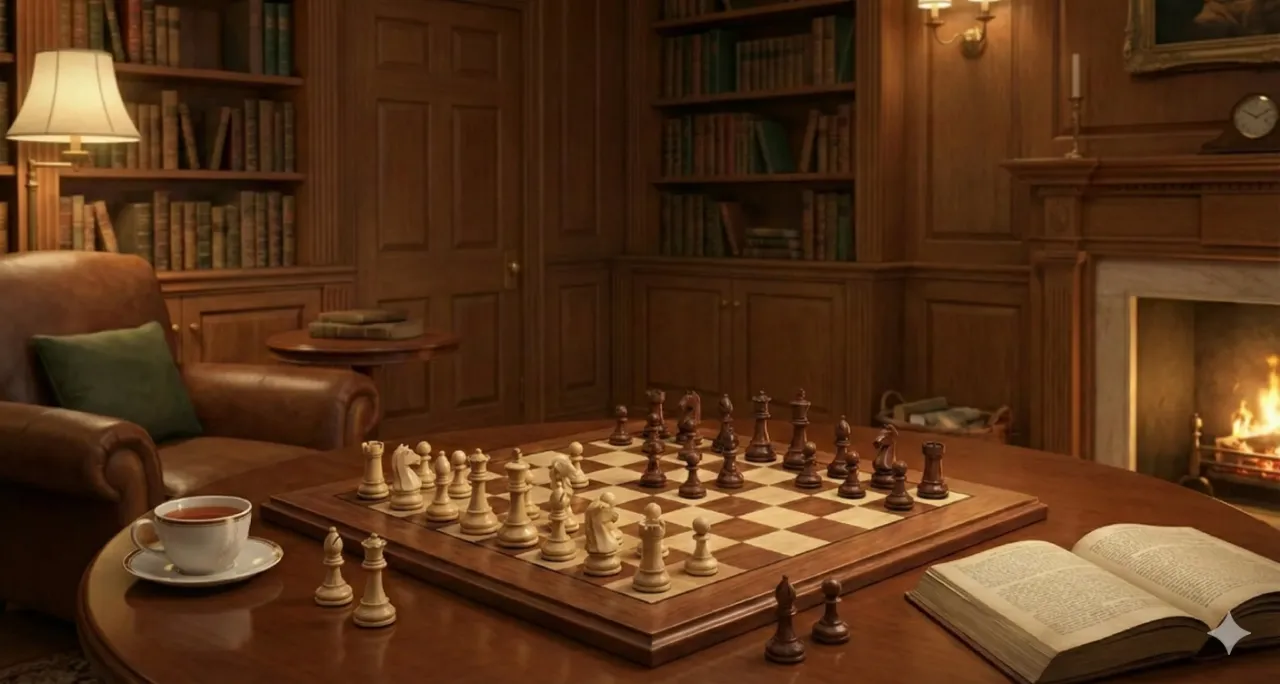
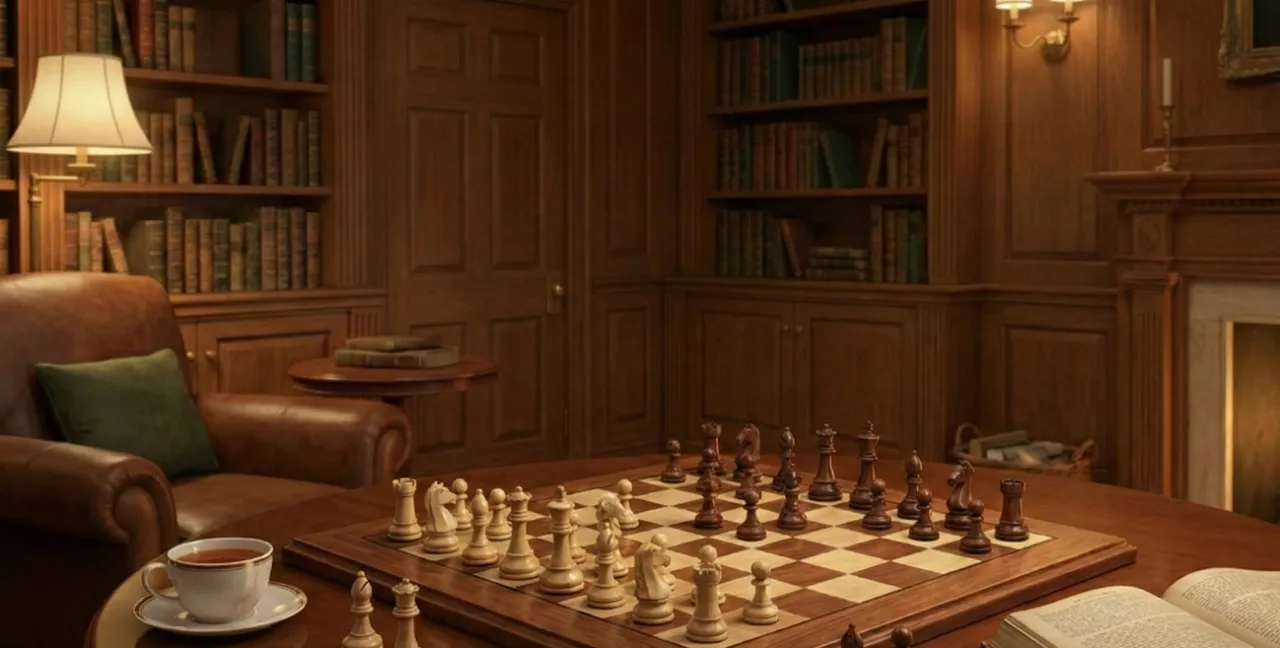
Fix confirmed review findings: duel rematch order, honest cleared-card copy, hero watermark
- Duel: who goes first now also flips on a rematch, so an odd number of positions
  does not favor the same person every time.
- Copy: a cleared notebook card says it keeps coming back at longer intervals;
  settings preview rows no longer name a quality their own verdict contradicts;
  material is 'points of value', not the 0-10 score points; museum era boundary
  moved to 1475 so the modern queen and bishop sit in the modern era.
- Gauge writes the Spanish decimal comma; singular/plural follows the rounded number.
- Account: external links no longer inherit the sync-card box style.
- Duel summary headline wraps long names; next position opens scrolled to the top.
- Landing hero photo: crop out the generator's corner mark (noted in THIRD_PARTY_NOTICES).

Claude-Session: https://claude.ai/code/session_014y2RuSNr4ZuPBvEJbVX5tK

diff --git a/index.html b/index.html
@@ -10,7 +10,7 @@
   <meta name="description" content="Entrenador de ajedrez gratuito y sin registro: aprendé de tus errores y de partidas clásicas, y ganá más puntos cuanto más cerca juegues de la mejor jugada del motor." />
   <meta name="apple-mobile-web-app-capable" content="yes" />
   <meta name="apple-mobile-web-app-title" content="Scaccorum" />
-  <meta name="ludus-version" content="0ce5101e5f27" />
+  <meta name="ludus-version" content="084140f70798" />
   <link rel="manifest" href="./manifest.json" />
   <link rel="apple-touch-icon" href="./assets/icons/apple-touch-icon.png" />
   <link rel="icon" type="image/svg+xml" href="assets/brand/favicon.svg" />
@@ -25,19 +25,19 @@
   <!-- Boot guards (js/boot.js): a tiny synchronous same-origin script that runs before the first paint. It marks
        returning visitors (no landing flash), hides the app when it is framed and shows a notice on browsers too old
        for the app; it is the only script that is not at the end of <body>. -->
-  <script src="js/boot.js?v=0ce5101e5f27"></script>
-  <link rel="stylesheet" href="styles.css?v=0ce5101e5f27" />
-  <link rel="stylesheet" href="css/system.css?v=0ce5101e5f27" />
-  <link rel="stylesheet" href="css/shell.css?v=0ce5101e5f27" />
-  <link rel="stylesheet" href="css/board.css?v=0ce5101e5f27" />
-  <link rel="stylesheet" href="css/coach.css?v=0ce5101e5f27" />
-  <link rel="stylesheet" href="css/home.css?v=0ce5101e5f27" />
-  <link rel="stylesheet" href="css/classics.css?v=0ce5101e5f27" />
-  <link rel="stylesheet" href="css/notebook.css?v=0ce5101e5f27" />
-  <link rel="stylesheet" href="css/progress.css?v=0ce5101e5f27" />
-  <link rel="stylesheet" href="css/museum.css?v=0ce5101e5f27" />
-  <link rel="stylesheet" href="css/settings.css?v=0ce5101e5f27" />
-  <link rel="stylesheet" href="css/account.css?v=0ce5101e5f27" />
+  <script src="js/boot.js?v=084140f70798"></script>
+  <link rel="stylesheet" href="styles.css?v=084140f70798" />
+  <link rel="stylesheet" href="css/system.css?v=084140f70798" />
+  <link rel="stylesheet" href="css/shell.css?v=084140f70798" />
+  <link rel="stylesheet" href="css/board.css?v=084140f70798" />
+  <link rel="stylesheet" href="css/coach.css?v=084140f70798" />
+  <link rel="stylesheet" href="css/home.css?v=084140f70798" />
+  <link rel="stylesheet" href="css/classics.css?v=084140f70798" />
+  <link rel="stylesheet" href="css/notebook.css?v=084140f70798" />
+  <link rel="stylesheet" href="css/progress.css?v=084140f70798" />
+  <link rel="stylesheet" href="css/museum.css?v=084140f70798" />
+  <link rel="stylesheet" href="css/settings.css?v=084140f70798" />
+  <link rel="stylesheet" href="css/account.css?v=084140f70798" />
 </head>
 
 <body class="mode-citizen">
@@ -420,33 +420,33 @@
     </div>
   </div>
 
-  <script src="config.js?v=0ce5101e5f27"></script>
-  <script src="js/ludus.js?v=0ce5101e5f27"></script>
-  <script src="js/chess.js?v=0ce5101e5f27"></script>
-  <script src="js/pgn.js?v=0ce5101e5f27"></script>
-  <script src="js/engine.js?v=0ce5101e5f27"></script>
-  <script src="js/scoring.js?v=0ce5101e5f27"></script>
-  <script src="js/insights.js?v=0ce5101e5f27"></script>
-  <script src="js/concepts.js?v=0ce5101e5f27"></script>
-  <script src="js/settings.js?v=0ce5101e5f27"></script>
-  <script src="js/profile.js?v=0ce5101e5f27"></script>
-  <script src="js/facts.js?v=0ce5101e5f27"></script>
-  <script src="js/reader.js?v=0ce5101e5f27"></script>
-  <script src="js/audio.js?v=0ce5101e5f27"></script>
-  <script src="js/auth.js?v=0ce5101e5f27"></script>
-  <script src="js/classics.js?v=0ce5101e5f27"></script>
-  <script src="js/ui/kit.js?v=0ce5101e5f27"></script>
-  <script src="js/ui/shell.js?v=0ce5101e5f27"></script>
-  <script src="js/ui/board.js?v=0ce5101e5f27"></script>
-  <script src="js/ui/coach.js?v=0ce5101e5f27"></script>
-  <script src="js/ui/home.js?v=0ce5101e5f27"></script>
-  <script src="js/ui/classics.js?v=0ce5101e5f27"></script>
-  <script src="js/ui/notebook.js?v=0ce5101e5f27"></script>
-  <script src="js/ui/progress.js?v=0ce5101e5f27"></script>
-  <script src="js/ui/museum.js?v=0ce5101e5f27"></script>
-  <script src="js/ui/settings.js?v=0ce5101e5f27"></script>
-  <script src="js/ui/account.js?v=0ce5101e5f27"></script>
-  <script src="app.js?v=0ce5101e5f27"></script>
+  <script src="config.js?v=084140f70798"></script>
+  <script src="js/ludus.js?v=084140f70798"></script>
+  <script src="js/chess.js?v=084140f70798"></script>
+  <script src="js/pgn.js?v=084140f70798"></script>
+  <script src="js/engine.js?v=084140f70798"></script>
+  <script src="js/scoring.js?v=084140f70798"></script>
+  <script src="js/insights.js?v=084140f70798"></script>
+  <script src="js/concepts.js?v=084140f70798"></script>
+  <script src="js/settings.js?v=084140f70798"></script>
+  <script src="js/profile.js?v=084140f70798"></script>
+  <script src="js/facts.js?v=084140f70798"></script>
+  <script src="js/reader.js?v=084140f70798"></script>
+  <script src="js/audio.js?v=084140f70798"></script>
+  <script src="js/auth.js?v=084140f70798"></script>
+  <script src="js/classics.js?v=084140f70798"></script>
+  <script src="js/ui/kit.js?v=084140f70798"></script>
+  <script src="js/ui/shell.js?v=084140f70798"></script>
+  <script src="js/ui/board.js?v=084140f70798"></script>
+  <script src="js/ui/coach.js?v=084140f70798"></script>
+  <script src="js/ui/home.js?v=084140f70798"></script>
+  <script src="js/ui/classics.js?v=084140f70798"></script>
+  <script src="js/ui/notebook.js?v=084140f70798"></script>
+  <script src="js/ui/progress.js?v=084140f70798"></script>
+  <script src="js/ui/museum.js?v=084140f70798"></script>
+  <script src="js/ui/settings.js?v=084140f70798"></script>
+  <script src="js/ui/account.js?v=084140f70798"></script>
+  <script src="app.js?v=084140f70798"></script>
 </body>
 
 </html>

diff --git a/sw.js b/sw.js
@@ -35,7 +35,7 @@ const STATIC_PREFIX = `${CACHE_PREFIX}static-`;
 const ENGINE_PREFIX = `${CACHE_PREFIX}engine-`;
 
 // generated
-const CACHE_NAME = "ludus-scaccorum-static-0ce5101e5f27";
+const CACHE_NAME = "ludus-scaccorum-static-084140f70798";
 // generated
 const ENGINE_CACHE = "ludus-scaccorum-engine-64d9ab68faad";
 // generated: SHA-256 of every engine file this build was made for
@@ -47,47 +47,47 @@ const ENGINE_FILES = {
 const CORE_ASSETS = [
   "./",
   "./index.html",
-  "./js/boot.js?v=0ce5101e5f27",
-  "./styles.css?v=0ce5101e5f27",
-  "./css/system.css?v=0ce5101e5f27",
-  "./css/shell.css?v=0ce5101e5f27",
-  "./css/board.css?v=0ce5101e5f27",
-  "./css/coach.css?v=0ce5101e5f27",
-  "./css/home.css?v=0ce5101e5f27",
-  "./css/classics.css?v=0ce5101e5f27",
-  "./css/notebook.css?v=0ce5101e5f27",
-  "./css/progress.css?v=0ce5101e5f27",
-  "./css/museum.css?v=0ce5101e5f27",
-  "./css/settings.css?v=0ce5101e5f27",
-  "./css/account.css?v=0ce5101e5f27",
-  "./config.js?v=0ce5101e5f27",
-  "./js/ludus.js?v=0ce5101e5f27",
-  "./js/chess.js?v=0ce5101e5f27",
-  "./js/pgn.js?v=0ce5101e5f27",
-  "./js/engine.js?v=0ce5101e5f27",
-  "./js/scoring.js?v=0ce5101e5f27",
-  "./js/insights.js?v=0ce5101e5f27",
-  "./js/concepts.js?v=0ce5101e5f27",
-  "./js/settings.js?v=0ce5101e5f27",
-  "./js/profile.js?v=0ce5101e5f27",
-  "./js/facts.js?v=0ce5101e5f27",
-  "./js/reader.js?v=0ce5101e5f27",
-  "./js/audio.js?v=0ce5101e5f27",
-  "./js/auth.js?v=0ce5101e5f27",
-  "./js/classics.js?v=0ce5101e5f27",
-  "./js/ui/kit.js?v=0ce5101e5f27",
-  "./js/ui/shell.js?v=0ce5101e5f27",
-  "./js/ui/board.js?v=0ce5101e5f27",
-  "./js/ui/coach.js?v=0ce5101e5f27",
-  "./js/ui/home.js?v=0ce5101e5f27",
-  "./js/ui/classics.js?v=0ce5101e5f27",
-  "./js/ui/notebook.js?v=0ce5101e5f27",
-  "./js/ui/progress.js?v=0ce5101e5f27",
-  "./js/ui/museum.js?v=0ce5101e5f27",
-  "./js/ui/settings.js?v=0ce5101e5f27",
-  "./js/ui/account.js?v=0ce5101e5f27",
-  "./app.js?v=0ce5101e5f27",
-  "./js/data/classics.data.js?v=0ce5101e5f27",
+  "./js/boot.js?v=084140f70798",
+  "./styles.css?v=084140f70798",
+  "./css/system.css?v=084140f70798",
+  "./css/shell.css?v=084140f70798",
+  "./css/board.css?v=084140f70798",
+  "./css/coach.css?v=084140f70798",
+  "./css/home.css?v=084140f70798",
+  "./css/classics.css?v=084140f70798",
+  "./css/notebook.css?v=084140f70798",
+  "./css/progress.css?v=084140f70798",
+  "./css/museum.css?v=084140f70798",
+  "./css/settings.css?v=084140f70798",
+  "./css/account.css?v=084140f70798",
+  "./config.js?v=084140f70798",
+  "./js/ludus.js?v=084140f70798",
+  "./js/chess.js?v=084140f70798",
+  "./js/pgn.js?v=084140f70798",
+  "./js/engine.js?v=084140f70798",
+  "./js/scoring.js?v=084140f70798",
+  "./js/insights.js?v=084140f70798",
+  "./js/concepts.js?v=084140f70798",
+  "./js/settings.js?v=084140f70798",
+  "./js/profile.js?v=084140f70798",
+  "./js/facts.js?v=084140f70798",
+  "./js/reader.js?v=084140f70798",
+  "./js/audio.js?v=084140f70798",
+  "./js/auth.js?v=084140f70798",
+  "./js/classics.js?v=084140f70798",
+  "./js/ui/kit.js?v=084140f70798",
+  "./js/ui/shell.js?v=084140f70798",
+  "./js/ui/board.js?v=084140f70798",
+  "./js/ui/coach.js?v=084140f70798",
+  "./js/ui/home.js?v=084140f70798",
+  "./js/ui/classics.js?v=084140f70798",
+  "./js/ui/notebook.js?v=084140f70798",
+  "./js/ui/progress.js?v=084140f70798",
+  "./js/ui/museum.js?v=084140f70798",
+  "./js/ui/settings.js?v=084140f70798",
+  "./js/ui/account.js?v=084140f70798",
+  "./app.js?v=084140f70798",
+  "./js/data/classics.data.js?v=084140f70798",
   "./manifest.json",
   "./assets/icons/icon-192.png",
   "./assets/icons/icon-512.png",

diff --git a/app.js b/app.js
@@ -1338,6 +1338,8 @@ const STATE = {
     // position while the first one's clock ran, and that advantage must not always be the same person's.
     currentPlayer: 0,
     firstPlayer: 0,
+    // 0 or 1: a rematch flips it, so with an odd number of positions the same person does not go first once more every time.
+    startOffset: 0,
     roundResults: [null, null],
     handoffReady: false,
     // The cover of a new duel position is up and the first player's clock has not started yet.
@@ -1753,7 +1755,8 @@ function currentUiPlayerIndex() {
 // The players of a duel take turns going first (PF-2): position 1 starts the first player, position 2 the second one, and
 // so on. Whoever goes second has watched the position while the other's clock ran, so the advantage is shared.
 function duelFirstPlayerFor(index) {
-  return Math.abs(Math.round(Number(index) || 0)) % 2 === 0 ? 0 : 1;
+  const offset = STATE.duel.startOffset === 1 ? 1 : 0;
+  return (Math.abs(Math.round(Number(index) || 0)) + offset) % 2 === 0 ? 0 : 1;
 }
 
 // The player who moves second in the position on screen.
@@ -2583,8 +2586,8 @@ function formatClock(remainingMs) {
 function resetDuelState() {
   STATE.duel.scores = [0, 0];
   STATE.duel.hits = [0, 0];
-  STATE.duel.currentPlayer = 0;
-  STATE.duel.firstPlayer = 0;
+  STATE.duel.firstPlayer = duelFirstPlayerFor(0);
+  STATE.duel.currentPlayer = STATE.duel.firstPlayer;
   STATE.duel.roundResults = [null, null];
   STATE.duel.handoffReady = false;
   STATE.duel.readyWait = false;
@@ -7701,7 +7704,7 @@ async function replaySession(options) {
     }
   }
   try {
-    await startSession({ kind, title, mode, names: names || undefined, profileIds: profileIds || undefined, positions, options: session.options });
+    await startSession({ kind, title, mode, names: names || undefined, profileIds: profileIds || undefined, positions, options: session.options, duelStartOffset: isDuelMode() && STATE.duel.startOffset !== 1 ? 1 : 0 });
   } catch (error) {
     console.warn("[Ludus] the new session could not start", error);
     showToast(t("core.start.failed"), { kind: "error" });
@@ -7829,6 +7832,7 @@ async function nextPosition() {
   }
   const resultSnapshot = captureResultViewSnapshot();
   hideResultOverlay();
+  if (coachScrollEl) coachScrollEl.scrollTop = 0;
 
   if (isDuelMode()) {
     // Whoever goes first in the NEXT position is the one the scoreboard points at while it is being found.
@@ -8325,6 +8329,7 @@ async function startSession(config = {}) {
 
   applyGameFormat(mode);
   if (names) STATE.duel.players = names;
+  STATE.duel.startOffset = cfg.duelStartOffset === 1 ? 1 : 0;
   resetDuelState();
   applySessionOptions(cfg.options);
   // The very first session has no clock (unless a screen asked for one): see isFirstRun().

diff --git a/js/insights.js b/js/insights.js
@@ -211,8 +211,8 @@
       "insight.missed_promotion": "{best} corona un peón. Un peón a un paso de coronar merece la primera mirada.",
       "insight.missed_check": "{best} da jaque. Antes de jugar algo tranquilo, conviene mirar todos los jaques.",
       "insight.missed_check.after": "Antes de jugar {san}, conviene mirar todos los jaques: {best} da jaque.",
-      "insight.tactic_available": "Después de {best}, la línea del motor parece ganar material: unos {n} puntos (peón 1, pieza 3, torre 5, dama 9).",
-      "insight.loses_material": "Después de {san}, la línea del motor parece costarte material: unos {n} puntos. Mirá qué puede capturar o atacar el rival.",
+      "insight.tactic_available": "Después de {best}, la línea del motor parece ganar material: unos {n} puntos de valor (peón 1, pieza 3, torre 5, dama 9).",
+      "insight.loses_material": "Después de {san}, la línea del motor parece costarte material: unos {n} puntos de valor. Mirá qué puede capturar o atacar el rival.",
       "insight.king_safety.pawn": "Mover el peón de {sq} puede debilitar el refugio que rodea a tu rey.",
       "insight.king_safety.king": "{san} saca al rey de su refugio, y eso puede dejarlo expuesto.",
       "insight.king_safety.castle": "{best} es enroque: el rey sigue en el centro y ponerlo a salvo parece urgente.",
@@ -293,8 +293,8 @@
       "insight.missed_promotion": "{best} promotes a pawn. A pawn one step from queening deserves the first look.",
       "insight.missed_check": "{best} gives check. Before quiet moves, it is worth looking at every check.",
       "insight.missed_check.after": "Before you play {san}, it is worth looking at every check: {best} gives check.",
-      "insight.tactic_available": "After {best}, the engine's line looks like it wins material: about {n} points (pawn 1, minor piece 3, rook 5, queen 9).",
-      "insight.loses_material": "After {san}, the engine's line looks like it costs you material: about {n} points. Check what your opponent can capture or attack.",
+      "insight.tactic_available": "After {best}, the engine's line looks like it wins material: about {n} points of value (pawn 1, minor piece 3, rook 5, queen 9).",
+      "insight.loses_material": "After {san}, the engine's line looks like it costs you material: about {n} points of value. Check what your opponent can capture or attack.",
       "insight.king_safety.pawn": "Moving the pawn on {sq} may weaken the shelter around your king.",
       "insight.king_safety.king": "{san} walks the king out of its shelter, which may leave it exposed.",
       "insight.king_safety.castle": "{best} castles: the king is still in the center, and getting it to safety looks urgent.",

diff --git a/js/ui/settings.js b/js/ui/settings.js
@@ -200,9 +200,9 @@
       "settings.ui.preview.case.equal": "Una jugada casi igual de buena ({cp} cp menos)",
       "settings.ui.preview.case.close": "Una jugada un poco peor ({cp} cp menos)",
       "settings.ui.preview.case.master": "La jugada del maestro, {cp} cp por debajo del motor",
-      "settings.ui.preview.case.inaccuracy": "Una imprecisión ({cp} cp menos)",
+      "settings.ui.preview.case.inaccuracy": "Una jugada algo peor ({cp} cp menos)",
       "settings.ui.preview.case.mistake": "Un error claro ({cp} cp menos)",
-      "settings.ui.preview.case.blunder": "Un error grave: se pierde una pieza ({cp} cp menos)",
+      "settings.ui.preview.case.blunder": "Un error muy grave: se pierde una pieza ({cp} cp menos)",
       "settings.ui.preview.case.mate": "No ver un mate forzado",
       "settings.ui.preview.case.hint": "La mejor jugada, tras usar una pista",
       "settings.ui.preview.foot": "El motor solo cambia la fiabilidad de la evaluación, no la escala de puntos. Con una sola línea no se reconocen las jugadas únicas.",
@@ -366,9 +366,9 @@
       "settings.ui.preview.case.equal": "An almost equally good move ({cp} cp less)",
       "settings.ui.preview.case.close": "A slightly worse move ({cp} cp less)",
       "settings.ui.preview.case.master": "The master's move, {cp} cp below the engine",
-      "settings.ui.preview.case.inaccuracy": "An inaccuracy ({cp} cp less)",
+      "settings.ui.preview.case.inaccuracy": "A somewhat worse move ({cp} cp less)",
       "settings.ui.preview.case.mistake": "A clear mistake ({cp} cp less)",
-      "settings.ui.preview.case.blunder": "A blunder: a piece is lost ({cp} cp less)",
+      "settings.ui.preview.case.blunder": "A serious mistake: a piece is lost ({cp} cp less)",
       "settings.ui.preview.case.mate": "Missing a forced mate",
       "settings.ui.preview.case.hint": "The best move, after using a hint",
       "settings.ui.preview.foot": "Engine strength only changes how reliable the evaluation is, not the points scale. With a single line, “only moves” cannot be recognized.",

diff --git a/js/ui/coach.js b/js/ui/coach.js
@@ -225,7 +225,7 @@
       "coach.card.created": "Guardada en tu cuaderno para repasarla {when}.",
       "coach.card.pass": "Repaso aprobado: la vas a volver a ver {when}.",
       "coach.card.fail": "Todavía cuesta: esta posición vuelve al principio y la repasás {when}.",
-      "coach.card.cleared": "¡Dominada! Esta posición sale de tu repaso.",
+      "coach.card.cleared": "¡Superada! Esta posición ya cuenta como dominada y vuelve cada vez más espaciada.",
       "coach.card.when.now": "ahora mismo",
       "coach.card.when.today": "hoy",
       "coach.card.when.tomorrow": "mañana",
@@ -403,7 +403,7 @@
       "coach.card.created": "Saved to your notebook, to review {when}.",
       "coach.card.pass": "Review passed: you will see it again {when}.",
       "coach.card.fail": "Still tricky: it goes back to the start and you review it {when}.",
-      "coach.card.cleared": "Mastered! This position leaves your review.",
+      "coach.card.cleared": "Cleared! This position now counts as mastered and comes back at longer and longer intervals.",
       "coach.card.when.now": "right now",
       "coach.card.when.today": "today",
       "coach.card.when.tomorrow": "tomorrow",
@@ -537,7 +537,7 @@
   // A number with its unit in the right form: "1 point" / "7.5 points", "1 punto" / "7,5 puntos" (never "1 puntos"). Only exactly one is
   // singular. kind: "points" (the 0-10 score of a position) or "pp" (percentage points of win chance).
   function unitText(kind, value, lang) {
-    const singular = Math.abs(Number(value)) === 1;
+    const singular = Math.abs(Math.round(Number(value) * 10) / 10) === 1;
     return t(`coach.unit.${kind}.${singular ? "one" : "other"}`, { n: formatNumber(value, lang) }, lang);
   }
 

diff --git a/scripts/tests/kit.test.js b/scripts/tests/kit.test.js
@@ -199,12 +199,13 @@ test("gauge: text alternative, clamped value, tone by ratio, arc reaches its tar
   const { ui } = createEnv();
   const g = ui.gauge({ value: 7.5, max: 10, label: "Puntos", size: 120 });
   assert.strictEqual(g.getAttribute("role"), "img");
-  assert.strictEqual(g.getAttribute("aria-label"), "Puntos: 7.5 de 10");
+  // Spanish writes its decimals with a comma, on the face of the gauge and in its text alternative (C-02).
+  assert.strictEqual(g.getAttribute("aria-label"), "Puntos: 7,5 de 10");
   assert.ok(g.classList.contains("gauge-good"));
   const arc = findAll(g, byClass("gauge-arc"))[0];
   const sweep = Number(arc.getAttribute("stroke-dasharray").split(" ")[0]);
   assert.ok(Math.abs(Number(arc.getAttribute("stroke-dashoffset")) - sweep * 0.25) < 0.05, "75% of the arc is drawn");
-  assert.strictEqual(findAll(g, byClass("gauge-value"))[0].textContent, "7.5");
+  assert.strictEqual(findAll(g, byClass("gauge-value"))[0].textContent, "7,5");
   assert.ok(ui.gauge({ value: 10 }).classList.contains("gauge-perfect"));
   assert.ok(ui.gauge({ value: 1 }).classList.contains("gauge-blunder"));
   assert.ok(ui.gauge({ value: 5 }).classList.contains("gauge-dubious"));

diff --git a/css/account.css b/css/account.css
@@ -273,7 +273,7 @@ html[data-motion="reduce"] .account-swatch-face,
 html[data-motion="reduce"] .account-swatch-face .ui-icon { transition: none; }
 
 /* ── Which profile goes to the Drive (first sign-in, QA SEC-005) ── */
-.account-link { display: grid; gap: var(--space-3); padding: var(--space-4); border: 1px solid var(--color-gold-dim); border-radius: var(--radius-xl); background: var(--color-gold-bg); }
+.account-link[data-link] { display: grid; gap: var(--space-3); padding: var(--space-4); border: 1px solid var(--color-gold-dim); border-radius: var(--radius-xl); background: var(--color-gold-bg); }
 .account-link[data-link="done"] { border-color: var(--color-hairline); background: var(--color-surface-2); justify-items: start; }
 .account-link-fieldset { min-width: 0; margin: 0; padding: 0; border: 0; }
 .account-link-options { display: grid; gap: var(--space-2); }

diff --git a/css/coach.css b/css/coach.css
@@ -1475,7 +1475,7 @@ button.co-concept { min-height: 44px; }
 .co-sum-gauge { display: grid; place-items: center; }
 .co-sum-copy { display: grid; gap: var(--space-2); min-width: 0; }
 .co-sum-copy .co-eyebrow { margin: 0; }
-.co-sum-title { margin: 0; font-family: var(--font-display); font-size: var(--text-3xl); font-weight: 650; line-height: 1.05; letter-spacing: -0.01em; text-wrap: balance; }
+.co-sum-title { margin: 0; overflow-wrap: anywhere; font-family: var(--font-display); font-size: var(--text-3xl); font-weight: 650; line-height: 1.05; letter-spacing: -0.01em; text-wrap: balance; }
 .co-sum-sub { margin: 0; color: var(--color-text-muted); font-size: var(--text-base); }
 .co-sum-stats { display: flex; flex-wrap: wrap; gap: var(--space-2) var(--space-5); margin: var(--space-2) 0 0; }
 .co-sum-stat { display: grid; gap: 2px; margin: 0; }

diff --git a/js/ui/kit.js b/js/ui/kit.js
@@ -555,7 +555,8 @@
     const tone = /^[a-z][a-z-]*$/.test(String(opts.tone || "")) ? opts.tone : gaugeTone(ratio);
     const centre = size / 2;
     const rotate = `rotate(135 ${fmt(centre)} ${fmt(centre)})`;
-    const shown = Number.isInteger(value) ? String(value) : String(Math.round(value * 10) / 10);
+    const plain = Number.isInteger(value) ? String(value) : String(Math.round(value * 10) / 10);
+    const shown = lang() === "es" ? plain.replace(".", ",") : plain;
     const track = h("svg:circle", {
       class: "gauge-track", cx: fmt(centre), cy: fmt(centre), r: fmt(radius), fill: "none", "stroke-width": stroke,
       "stroke-linecap": "round", "stroke-dasharray": `${fmt(sweep)} ${fmt(circumference)}`, transform: rotate,

diff --git a/scripts/tests/museum-ui.test.js b/scripts/tests/museum-ui.test.js
@@ -196,7 +196,10 @@ test("eras and grouping: the 36 real milestones land in ordered eras, none lost"
   assert.strictEqual(h.eraOfYear(600), "e0");
   assert.strictEqual(h.eraOfYear(999), "e0");
   assert.strictEqual(h.eraOfYear(1000), "e1");
-  assert.strictEqual(h.eraOfYear(1499), "e1");
+  // The 1475-1497 milestones (the modern queen and bishop, Lucena) belong to the era named "modern chess" (C-07).
+  assert.strictEqual(h.eraOfYear(1474), "e1");
+  assert.strictEqual(h.eraOfYear(1475), "e2");
+  assert.strictEqual(h.eraOfYear(1499), "e2");
   assert.strictEqual(h.eraOfYear(1500), "e2");
   assert.strictEqual(h.eraOfYear(1851), "e3");
   assert.strictEqual(h.eraOfYear(1886), "e4");

diff --git a/js/ui/museum.js b/js/ui/museum.js
@@ -274,8 +274,8 @@
   // The eras of the timeline: [from, to] inclusive, `to` null = open ended.
   const ERAS = [
     { id: "e0", from: null, to: 999 },
-    { id: "e1", from: 1000, to: 1499 },
-    { id: "e2", from: 1500, to: 1799 },
+    { id: "e1", from: 1000, to: 1474 },
+    { id: "e2", from: 1475, to: 1799 },
     { id: "e3", from: 1800, to: 1885 },
     { id: "e4", from: 1886, to: 1947 },
     { id: "e5", from: 1948, to: 1989 },
